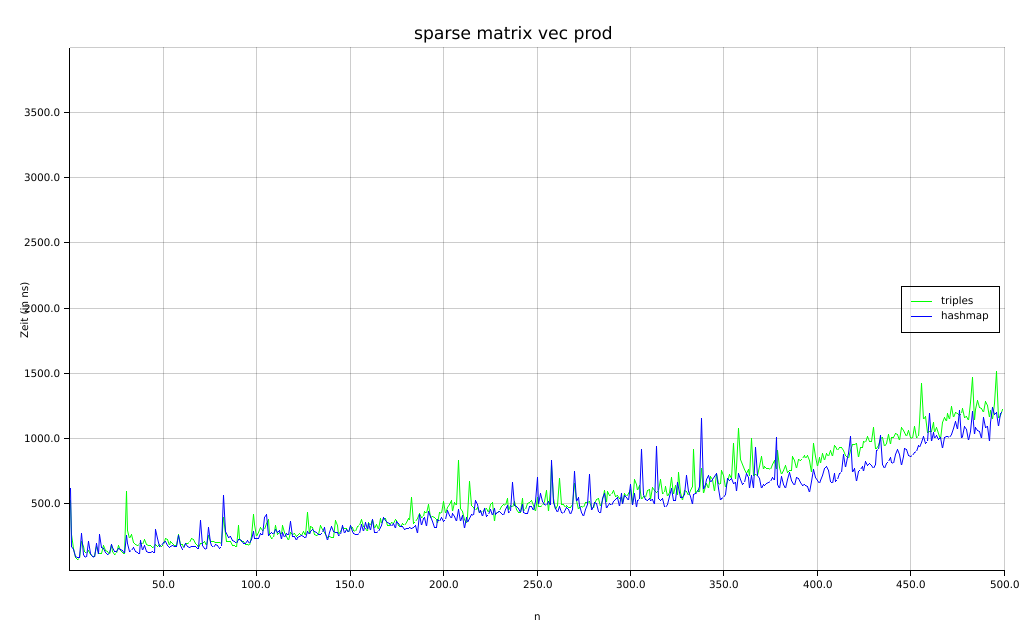
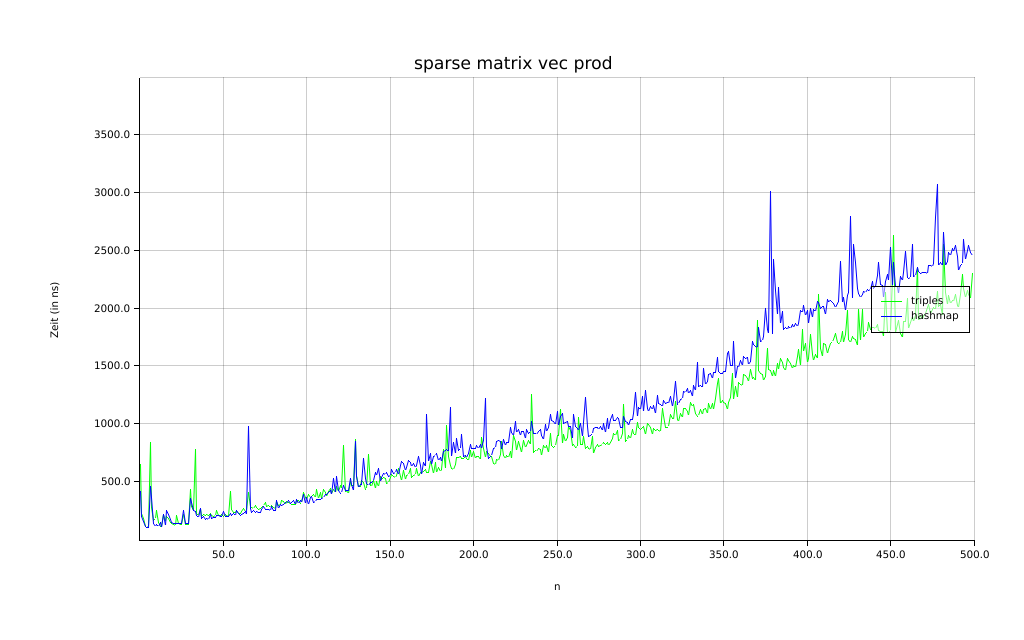
Add algorithm benchmarks back

diff --git a/benches/algorithm.rs b/benches/algorithm.rs
@@ -1,7 +1,7 @@
 mod utils;
 
 use extensor_coding::{algorithm, graph::Graph};
-use plotters::style;
+use plotters::{prelude::*, style};
 use std::time::Instant;
 
 fn bench_c(num_iter: u64, path_str: &str) -> Vec<Vec<f64>> {
@@ -90,7 +90,6 @@ fn iterations_eps(num_iter: u64) -> Vec<Vec<f64>> {
 }
 
 fn main() {
-    /*
     let g_rand = utils::rand_graph(200, 0.5);
     let num_iterations_rand = count_iterations(1, g_rand);
 
@@ -116,11 +115,10 @@ fn main() {
         "benches/output/iterations",
         &result,
     );
-    */
 
     let iter_eps = iterations_eps(1);
     let results = vec![("".to_string(), style::RED, iter_eps)];
-    let _ = utils::plot_results(
+    let _1 = utils::plot_results(
         "iterations vs epsilon",
         (("epsilon^-1", 1f32..10f32), ("iterations", 1f32..20f32)),
         1,
@@ -128,7 +126,6 @@ fn main() {
         &results,
     );
 
-    /*
     //   let times_algo_c_10 = bench_c(2, "src/data/path10.g6");
     //    let times_algo_c_100 = bench_c(2, "src/data/path100.g6");
     let times_algo_c_tutte = bench_c(1, "src/data/path100.g6");
@@ -150,7 +147,7 @@ fn main() {
             times_algo_c_tutte,
         ),
     ];
-    let _ = utils::plot_results_log(
+    let _2 = utils::plot_results_log(
         "algorithm c (dense_hashmap, sparse matrix)",
         (
             ("k", 2f32..11f32),
@@ -190,5 +187,4 @@ fn main() {
         "benches/output/algo_n_0_5",
         &result_n,
     );
-    */
 }
